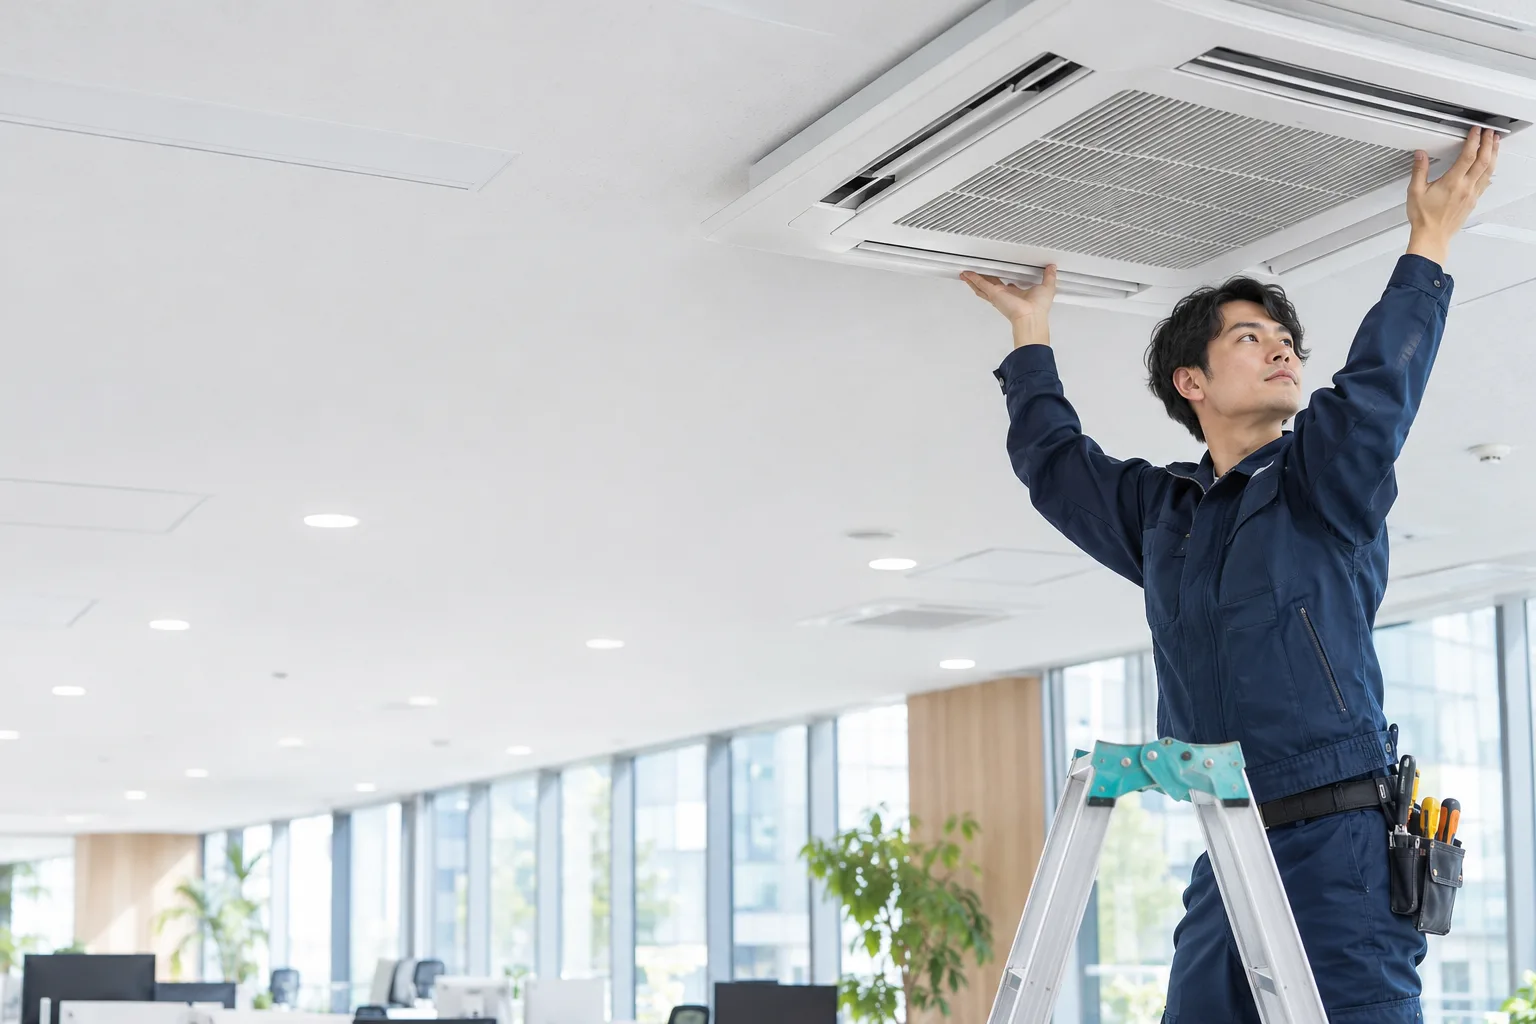
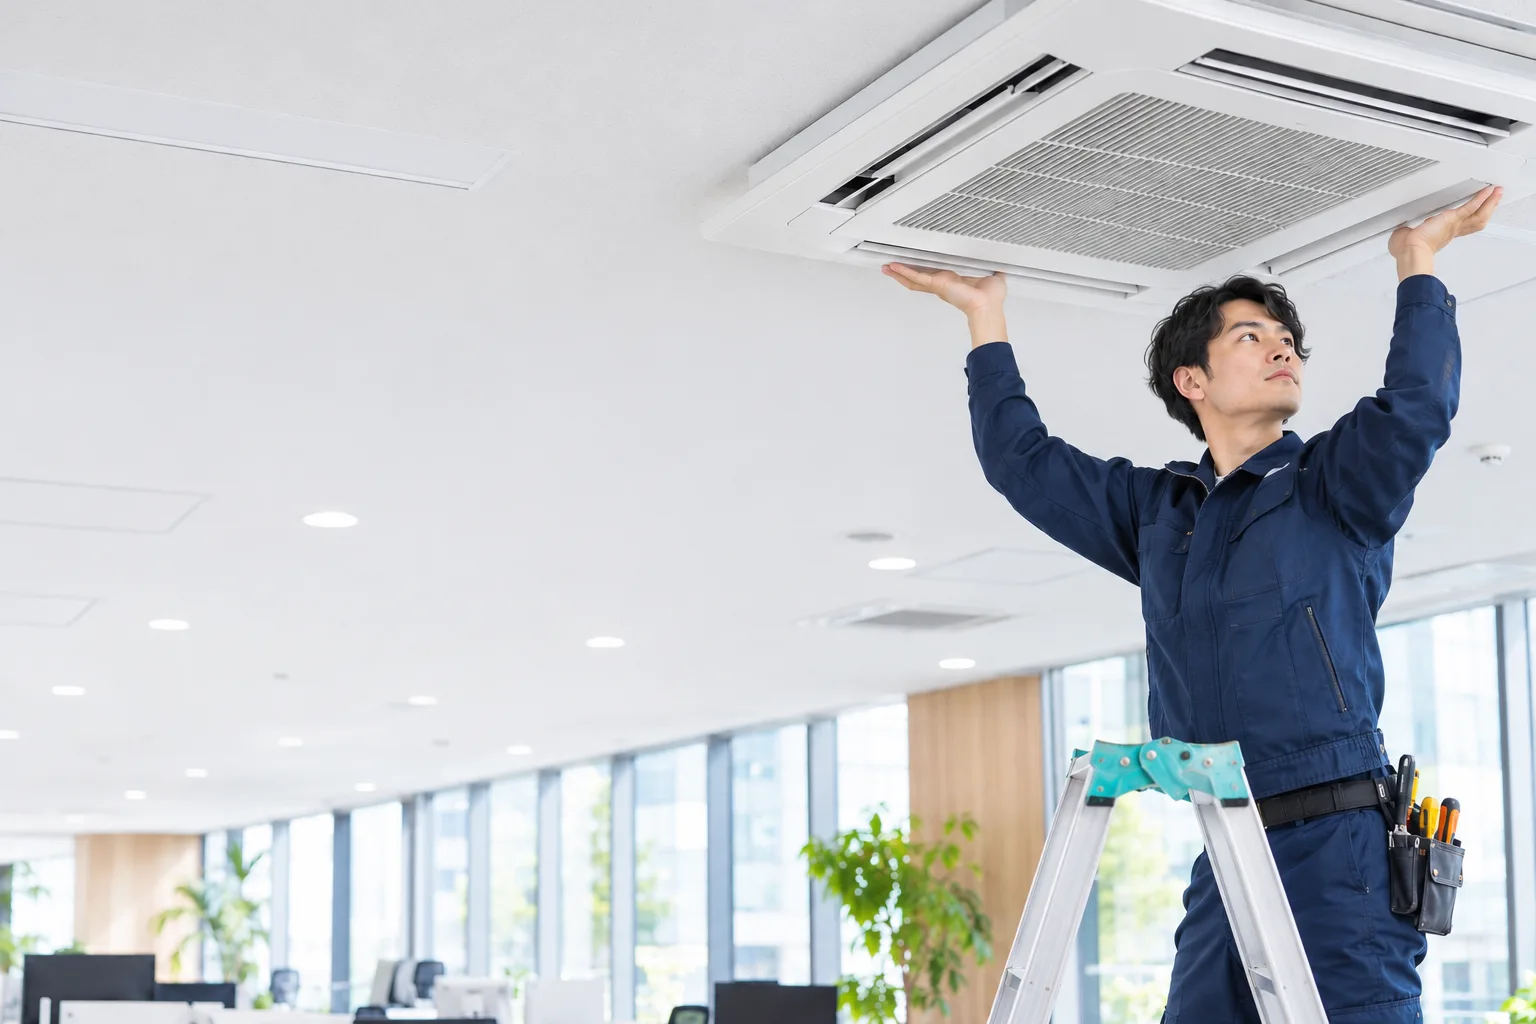
直し5点（FV の手・会社紹介の余白・英字の見出しを1行・ボタン・SCROLL）?v=20261028b

diff --git a/index.html b/index.html
@@ -9,9 +9,9 @@
 <link rel="preconnect" href="https://fonts.googleapis.com">
 <link rel="preconnect" href="https://fonts.gstatic.com" crossorigin>
 <link href="https://fonts.googleapis.com/css2?family=Inter+Tight:wght@500;800&family=Jost:wght@400;500&family=Noto+Sans+JP:wght@400;500;700&family=Shippori+Mincho+B1:wght@600&display=swap" rel="stylesheet">
-<link rel="stylesheet" href="tokens.css?v=20261028a">
-<link rel="stylesheet" href="base.css?v=20261028a">
-<link rel="stylesheet" href="style.css?v=20261028a">
+<link rel="stylesheet" href="tokens.css?v=20261028b">
+<link rel="stylesheet" href="base.css?v=20261028b">
+<link rel="stylesheet" href="style.css?v=20261028b">
 </head>
 <body>
 
@@ -21,8 +21,8 @@
 
 <header class="header">
   <a class="logo" href="./" aria-label="有限会社K1-テクニカル トップへ">
-    <img class="logo__w" src="assets/logo_w.png?v=20261028a" alt="" width="857" height="76">
-    <img class="logo__c" src="assets/logo.png?v=20261028a" alt="" width="857" height="76">
+    <img class="logo__w" src="assets/logo_w.png?v=20261028b" alt="" width="857" height="76">
+    <img class="logo__c" src="assets/logo.png?v=20261028b" alt="" width="857" height="76">
   </a>
   <nav class="nav" aria-label="メインメニュー">
     <ul class="nav__list">
@@ -54,7 +54,7 @@
     <section class="fv">
     <div class="fv__frame">
       <div class="fv__photo">
-        <img src="assets/fv.webp?v=20261028a" alt="オフィスの天井に業務用エアコンを取り付ける技術者" width="1536" height="1024" fetchpriority="high">
+        <img src="assets/fv.webp?v=20261028b" alt="オフィスの天井に業務用エアコンを取り付ける技術者" width="1536" height="1024" fetchpriority="high">
       </div>
       <svg class="fv__air" viewBox="0 0 1600 900" preserveAspectRatio="none" aria-hidden="true">
         <path d="M-50 260 C 300 180, 520 380, 860 300 S 1400 160, 1700 260"/>
@@ -74,7 +74,7 @@
     <div class="marquee" aria-hidden="true"><div class="marquee__track"><span>CONDITIONING THE AIR,</span><span>SUPPORTING EVERYDAY LIFE.</span><span>CONDITIONING THE AIR,</span><span>SUPPORTING EVERYDAY LIFE.</span><span>CONDITIONING THE AIR,</span><span>SUPPORTING EVERYDAY LIFE.</span><span>CONDITIONING THE AIR,</span><span>SUPPORTING EVERYDAY LIFE.</span></div></div>
     <div class="intro__in">
       <figure class="intro__photo rv">
-        <img src="assets/intro.webp?v=20261028a" alt="空調の効いた明るいオフィス" width="1536" height="1024" loading="lazy">
+        <img src="assets/intro.webp?v=20261028b" alt="空調の効いた明るいオフィス" width="1536" height="1024" loading="lazy">
         <p class="intro__tate" data-on-photo><span>暑い日も、寒い日も、いつも通りに過ごせること。</span><span>その日常を支える設備の一つが、空調です。</span></p>
       </figure>
       <div class="intro__txt">
@@ -104,7 +104,7 @@
             <p class="card__sub">建物に合わせて、空調を整える。</p>
             <p class="card__en" aria-hidden="true">AIR<br>CONDITIONING</p>
           </div>
-          <div class="card__img"><img src="assets/svc_01.webp?v=20261028a" alt="" width="726" height="470" loading="lazy"></div>
+          <div class="card__img"><img src="assets/svc_01.webp?v=20261028b" alt="" width="726" height="470" loading="lazy"></div>
         </li>
         <li class="card rv">
           <div class="card__txt">
@@ -113,7 +113,7 @@
             <p class="card__sub">空気の流れを、つくる。</p>
             <p class="card__en" aria-hidden="true">VENTILATION<br>&amp; DUCT</p>
           </div>
-          <div class="card__img"><img src="assets/svc_02.webp?v=20261028a" alt="" width="726" height="470" loading="lazy"></div>
+          <div class="card__img"><img src="assets/svc_02.webp?v=20261028b" alt="" width="726" height="470" loading="lazy"></div>
         </li>
         <li class="card rv">
           <div class="card__txt">
@@ -122,7 +122,7 @@
             <p class="card__sub">設備を動かす配線まで。</p>
             <p class="card__en" aria-hidden="true">POWER<br>&amp; CONTROL</p>
           </div>
-          <div class="card__img"><img src="assets/svc_03.webp?v=20261028a" alt="" width="726" height="470" loading="lazy"></div>
+          <div class="card__img"><img src="assets/svc_03.webp?v=20261028b" alt="" width="726" height="470" loading="lazy"></div>
         </li>
         <li class="card rv">
           <div class="card__txt">
@@ -131,10 +131,10 @@
             <p class="card__sub">使い続けるための、点検と対応。</p>
             <p class="card__en" aria-hidden="true">MAINTENANCE<br>&amp; REPAIR</p>
           </div>
-          <div class="card__img"><img src="assets/svc_04.webp?v=20261028a" alt="" width="726" height="470" loading="lazy"></div>
+          <div class="card__img"><img src="assets/svc_04.webp?v=20261028b" alt="" width="726" height="470" loading="lazy"></div>
         </li>
       </ul>
-      <div class="sec__more rv"><a class="btn btn--w" href="#" data-todo="下層 service/ を作ったら差し替え"><span class="btn__txt">事業内容を見る</span><span class="btn__arw" aria-hidden="true"><svg viewBox="0 0 16 16"><path d="M1 8h13M9 3l5 5-5 5" fill="none" stroke="currentColor" stroke-width="1.6"/></svg></span></a></div>
+      <div class="sec__more rv"><a class="btn btn--w" href="#" data-todo="下層 service/ を作ったら差し替え"><span>事業内容を見る</span><span class="btn__arw" aria-hidden="true"><svg viewBox="0 0 16 16"><path d="M1 8h13M9 3l5 5-5 5" fill="none" stroke="currentColor" stroke-width="1.6"/></svg></span></a></div>
     </div>
   </section>
 
@@ -151,30 +151,30 @@
       </div>
       <div class="about__txt">
         <p class="statement rv">私たちだからこそ実現できる、確かな技術・サービスで全てのお客様に快適な空気を届けます。</p>
-        <div class="rv"><a class="btn" href="#" data-todo="下層 about/ を作ったら差し替え"><span class="btn__txt">私たちについて</span><span class="btn__arw" aria-hidden="true"><svg viewBox="0 0 16 16"><path d="M1 8h13M9 3l5 5-5 5" fill="none" stroke="currentColor" stroke-width="1.6"/></svg></span></a></div>
+        <div class="rv"><a class="btn" href="#" data-todo="下層 about/ を作ったら差し替え"><span>私たちについて</span><span class="btn__arw" aria-hidden="true"><svg viewBox="0 0 16 16"><path d="M1 8h13M9 3l5 5-5 5" fill="none" stroke="currentColor" stroke-width="1.6"/></svg></span></a></div>
       </div>
     </div>
     <figure class="about__photo rv">
-      <img src="assets/about.webp?v=20261028a" alt="松本の街と北アルプスの山並み" width="1536" height="760" loading="lazy">
+      <img src="assets/about.webp?v=20261028b" alt="松本の街と北アルプスの山並み" width="1536" height="760" loading="lazy">
     </figure>
     <p class="about__name" aria-hidden="true" data-shuffle="K1-TECHNICAL">K1-TECHNICAL</p>
   </section>
 
     <section class="sec company" id="company">
     <div class="wrap company__in">
+      <div class="ttl">
+        <p class="ttl__en ttl__en--xl" aria-hidden="true"><span class="mask"><span>COMPANY</span></span><span class="mask"><span>PROFILE</span></span></p>
+        <h2 class="ttl__ja rv">会社概要</h2>
+      </div>
       <div class="company__txt">
-        <div class="ttl">
-          <p class="ttl__en ttl__en--l" aria-hidden="true"><span class="mask"><span>COMPANY</span></span><span class="mask"><span>PROFILE</span></span></p>
-          <h2 class="ttl__ja rv">会社概要</h2>
-        </div>
         <div class="txt">
           <p class="lead rv">松本から、現場の一つひとつへ。</p>
           <p class="body rv">長野県松本市を拠点とする、空調設備の施工会社です。会社の基本情報や対応エリア、工事料金の目安をご紹介します。</p>
         </div>
-        <div class="rv"><a class="btn" href="#" data-todo="下層 company/ を作ったら差し替え"><span class="btn__txt">会社概要を見る</span><span class="btn__arw" aria-hidden="true"><svg viewBox="0 0 16 16"><path d="M1 8h13M9 3l5 5-5 5" fill="none" stroke="currentColor" stroke-width="1.6"/></svg></span></a></div>
+        <div class="rv"><a class="btn" href="#" data-todo="下層 company/ を作ったら差し替え"><span>会社概要を見る</span><span class="btn__arw" aria-hidden="true"><svg viewBox="0 0 16 16"><path d="M1 8h13M9 3l5 5-5 5" fill="none" stroke="currentColor" stroke-width="1.6"/></svg></span></a></div>
       </div>
       <figure class="company__photo rv">
-        <img src="assets/company.webp?v=20261028a" alt="" width="725" height="470" loading="lazy">
+        <img src="assets/company.webp?v=20261028b" alt="" width="725" height="470" loading="lazy">
         <p class="pin" aria-hidden="true"><span class="pin__dot"></span><span class="pin__txt">MATSUMOTO, NAGANO<br>36.2°N 137.9°E</span></p>
       </figure>
     </div>
@@ -182,7 +182,7 @@
 
     <section class="duo">
     <div class="duo__item duo__item--recruit" id="recruit">
-      <div class="duo__photo"><img src="assets/recruit.webp?v=20261028a" alt="" width="725" height="470" loading="lazy"></div>
+      <div class="duo__photo"><img src="assets/recruit.webp?v=20261028b" alt="" width="725" height="470" loading="lazy"></div>
       <div class="duo__in" data-on-photo>
         <div class="ttl">
           <p class="ttl__en ttl__en--m" aria-hidden="true"><span class="mask"><span>RECRUIT</span></span></p>
@@ -192,7 +192,7 @@
           <p class="lead rv">快適な毎日を、つくる側へ。</p>
           <p class="body rv"><span class="cl">設備の状態を確かめる。</span><span class="cl">不具合を修理する。</span><br>私たちの仕事は、建物を使う人の暮らしや仕事につながっています。空調の仕事に関心のある方へ、仕事内容と募集情報をご案内します。</p>
         </div>
-        <div class="rv"><a class="btn btn--w" href="#" data-todo="採用LP（sp-17）の URL が決まったら差し替え"><span class="btn__txt">採用情報を見る</span><span class="btn__arw" aria-hidden="true"><svg viewBox="0 0 16 16"><path d="M1 8h13M9 3l5 5-5 5" fill="none" stroke="currentColor" stroke-width="1.6"/></svg></span></a></div>
+        <div class="rv"><a class="btn btn--w" href="#" data-todo="採用LP（sp-17）の URL が決まったら差し替え"><span>採用情報を見る</span><span class="btn__arw" aria-hidden="true"><svg viewBox="0 0 16 16"><path d="M1 8h13M9 3l5 5-5 5" fill="none" stroke="currentColor" stroke-width="1.6"/></svg></span></a></div>
       </div>
     </div>
     <div class="duo__item duo__item--contact" id="contact">
@@ -202,7 +202,7 @@
           <h2 class="ttl__ja rv">お問い合わせ</h2>
         </div>
         <a class="duo__tel rv" href="tel:0263870351"><span class="duo__tel-label">TEL</span><span class="duo__tel-num">0263-87-0351</span></a>
-        <div class="rv"><a class="btn btn--w" href="#" data-todo="下層 contact/ を作ったら差し替え"><span class="btn__txt">お問い合わせフォーム</span><span class="btn__arw" aria-hidden="true"><svg viewBox="0 0 16 16"><path d="M1 8h13M9 3l5 5-5 5" fill="none" stroke="currentColor" stroke-width="1.6"/></svg></span></a></div>
+        <div class="rv"><a class="btn btn--w" href="#" data-todo="下層 contact/ を作ったら差し替え"><span>お問い合わせフォーム</span><span class="btn__arw" aria-hidden="true"><svg viewBox="0 0 16 16"><path d="M1 8h13M9 3l5 5-5 5" fill="none" stroke="currentColor" stroke-width="1.6"/></svg></span></a></div>
       </div>
     </div>
   </section>
@@ -212,7 +212,7 @@
 <footer class="footer">
   <div class="wrap footer__top">
     <div class="footer__co">
-      <a class="footer__logo" href="./" aria-label="有限会社K1-テクニカル トップへ"><img src="assets/logo_w.png?v=20261028a" alt="" width="857" height="76" loading="lazy"></a>
+      <a class="footer__logo" href="./" aria-label="有限会社K1-テクニカル トップへ"><img src="assets/logo_w.png?v=20261028b" alt="" width="857" height="76" loading="lazy"></a>
       <dl class="footer__info">
         <dt>ADDRESS</dt><dd><span class="nb">〒399-0039</span><br>長野県 松本市 小屋北1-17-6</dd>
         <dt>TEL</dt><dd><a class="nb" href="tel:0263870351">0263-87-0351</a></dd>
@@ -231,6 +231,6 @@
   <p class="footer__name" aria-hidden="true">K1-TECHNICAL</p>
 </footer>
 
-<script src="site.js?v=20261028a"></script>
+<script src="site.js?v=20261028b"></script>
 </body>
 </html>

diff --git a/style.css b/style.css
@@ -92,7 +92,7 @@
   position: absolute;
   z-index: 3;
   right: var(--gutter);
-  top: 50%;
+  bottom: calc(13.2vw + var(--sp-b));
   writing-mode: vertical-rl;
   font-family: var(--ff-en);
   font-size: 11px;
@@ -107,7 +107,7 @@
   .fv__lead { font-size: 15px; }
 }
 
-.intro { background: var(--c-sub); color: var(--c-base); padding-bottom: var(--sec-y); margin-top: calc(var(--frame) * -1); }
+.intro { background: var(--c-sub); color: var(--c-base); padding-bottom: var(--sp-s); margin-top: calc(var(--frame) * -1); }
 .marquee { overflow: hidden; padding-block: 22px; border-bottom: 1px solid var(--c-sub-ghost); }
 .marquee__track { display: flex; width: max-content; animation: marquee var(--marquee-dur, 60s) linear infinite; }
 .marquee__track span { padding-right: 4.5em; font-family: var(--ff-en); font-weight: 500; font-size: var(--fs-en-s); letter-spacing: 0.16em; white-space: nowrap; }
@@ -141,7 +141,7 @@
   .intro__photo img { object-position: 50% 75%; }
   .intro__in { margin-top: var(--sp-g); }
   .intro__tate { top: var(--sp-g); right: var(--sp-g); font-size: min(36px, (100cqh - var(--sp-g) * 2) / 25.5); }
-  .intro__txt { justify-self: end; margin-right: calc(var(--gutter) - var(--frame)); }
+  .intro__txt { width: auto; justify-self: stretch; grid-template-columns: 1fr minmax(0, 36em); align-items: start; margin-inline: calc(var(--gutter) - var(--frame)); }
 }
 
 .service { background: var(--c-sub-deep); color: var(--c-base); }
@@ -163,7 +163,7 @@
 }
 .sec__more { margin-top: var(--sp-g); display: flex; justify-content: flex-end; }
 @media (min-width: 960px) {
-  .service__head { grid-template-columns: 1fr auto; align-items: end; }
+  .service__head { grid-template-columns: auto minmax(0, 30em); justify-content: space-between; column-gap: var(--sp-g); align-items: end; }
   .cards { grid-template-columns: 1fr 1fr; column-gap: 2px; }
   .card { padding: var(--sp-g) var(--sp-g) var(--sp-g) 0; grid-template-columns: 1fr 48%; gap: var(--sp-b); }
   .card:nth-child(even) { padding: var(--sp-g) 0 var(--sp-g) var(--sp-g); }
@@ -197,7 +197,7 @@
   .about__name { margin-top: -0.6em; }
 }
 
-.company__in { display: grid; gap: var(--sp-s); }
+.company__in { display: grid; gap: var(--sp-g); }
 .company__txt { display: grid; gap: var(--sp-g); align-content: center; }
 .company__txt > .txt { gap: var(--sp-p); max-width: 30em; }
 .company__photo { aspect-ratio: 4 / 3; border-radius: var(--radius); }
@@ -208,7 +208,8 @@
 .pin__dot::after { content: ""; position: absolute; inset: 0; border-radius: 50%; border: 1px solid var(--c-on-photo); animation: pulse 2.4s var(--ease) infinite; }
 @keyframes pulse { from { transform: scale(1); opacity: 1; } to { transform: scale(4.5); opacity: 0; } }
 @media (min-width: 960px) {
-  .company__in { grid-template-columns: 1fr 1.15fr; gap: var(--sp-s); align-items: center; }
+  .company__in { grid-template-columns: 1fr 1.15fr; column-gap: var(--sp-s); row-gap: var(--sp-g); align-items: center; }
+  .company__in > .ttl { grid-column: 1 / -1; }
 }
 
 .duo { display: grid; }

diff --git a/base.css b/base.css
@@ -29,7 +29,9 @@ h1, h2, h3, p { margin: 0; font-weight: inherit; }
 
 .ttl { display: grid; gap: var(--sp-p); }
 .ttl__en {
-  display: grid;
+  display: flex;
+  column-gap: 0.22em;
+  white-space: nowrap;
   font-family: var(--ff-en);
   font-weight: 800;
   font-size: var(--fs-en-l);
@@ -45,15 +47,18 @@ h1, h2, h3, p { margin: 0; font-weight: inherit; }
 .mask > span { display: block; transform: translateY(105%); transition: transform 1.1s var(--ease); }
 .ttl__en.is-on .mask > span { transform: none; transition-delay: calc(var(--m, 0) * 0.1s); }
 
-.btn { display: inline-flex; align-items: center; gap: 10px; font-size: var(--fs-label); font-weight: 700; letter-spacing: 0.08em; color: var(--c-ink); }
-.btn__txt {
-  display: inline-grid;
-  place-items: center;
-  min-height: var(--btn-arw);
-  padding-inline: 28px;
+.btn {
+  display: inline-flex;
+  align-items: center;
+  gap: 24px;
+  padding: 6px 6px 6px 30px;
   border: 1px solid currentColor;
   border-radius: 999px;
-  transition: background-color 0.35s var(--ease), color 0.35s var(--ease);
+  font-size: var(--fs-label);
+  font-weight: 700;
+  letter-spacing: 0.08em;
+  color: var(--c-ink);
+  transition: background-color 0.35s var(--ease), color 0.35s var(--ease), border-color 0.35s var(--ease);
 }
 .btn__arw {
   display: grid;
@@ -69,9 +74,9 @@ h1, h2, h3, p { margin: 0; font-weight: inherit; }
 .btn--w { color: var(--c-base); }
 .btn--w .btn__arw { background: var(--c-base); color: var(--c-sub); }
 @media (hover: hover) {
-  .btn:hover .btn__txt { background: var(--c-ink); color: var(--c-base); border-color: var(--c-ink); }
-  .btn--w:hover .btn__txt { background: var(--c-base); color: var(--c-sub-deep); border-color: var(--c-base); }
-  .btn:hover .btn__arw { transform: translateX(6px); }
+  .btn:hover { background: var(--c-ink); color: var(--c-base); border-color: var(--c-ink); }
+  .btn--w:hover { background: var(--c-base); color: var(--c-sub-deep); border-color: var(--c-base); }
+  .btn:hover .btn__arw { transform: translateX(4px); }
 }
 
 .header {

diff --git a/tokens.css b/tokens.css
@@ -36,10 +36,10 @@
   --fs-head: clamp(22px, 2.2vw, 32px);
   --lh-head: 1.6;
   --ls-head: 0.06em;
-  --fs-en-xl: clamp(64px, 11vw, 176px);
+  --fs-en-xl: 9.6vw;
   --lh-en-xl: 0.84;
   --ls-en-xl: -0.045em;
-  --fs-en-l: clamp(44px, 6.4vw, 104px);
+  --fs-en-l: clamp(36px, 6.4vw, 120px);
   --fs-en-s: 13px;
 
   
@@ -57,7 +57,7 @@
 
   
   --header-h: 64px;
-  --btn-arw: 48px;
+  --btn-arw: 40px;
   --marquee-pxs: 40;
 
   
@@ -75,7 +75,8 @@
     --gutter: 48px;
     --frame: 16px;
     --header-h: 88px;
-    --btn-arw: 56px;
+    --btn-arw: 46px;
+    --fs-en-xl: clamp(64px, 6.8vw, 140px);
   }
 }
 @media (min-width: 1600px) {
